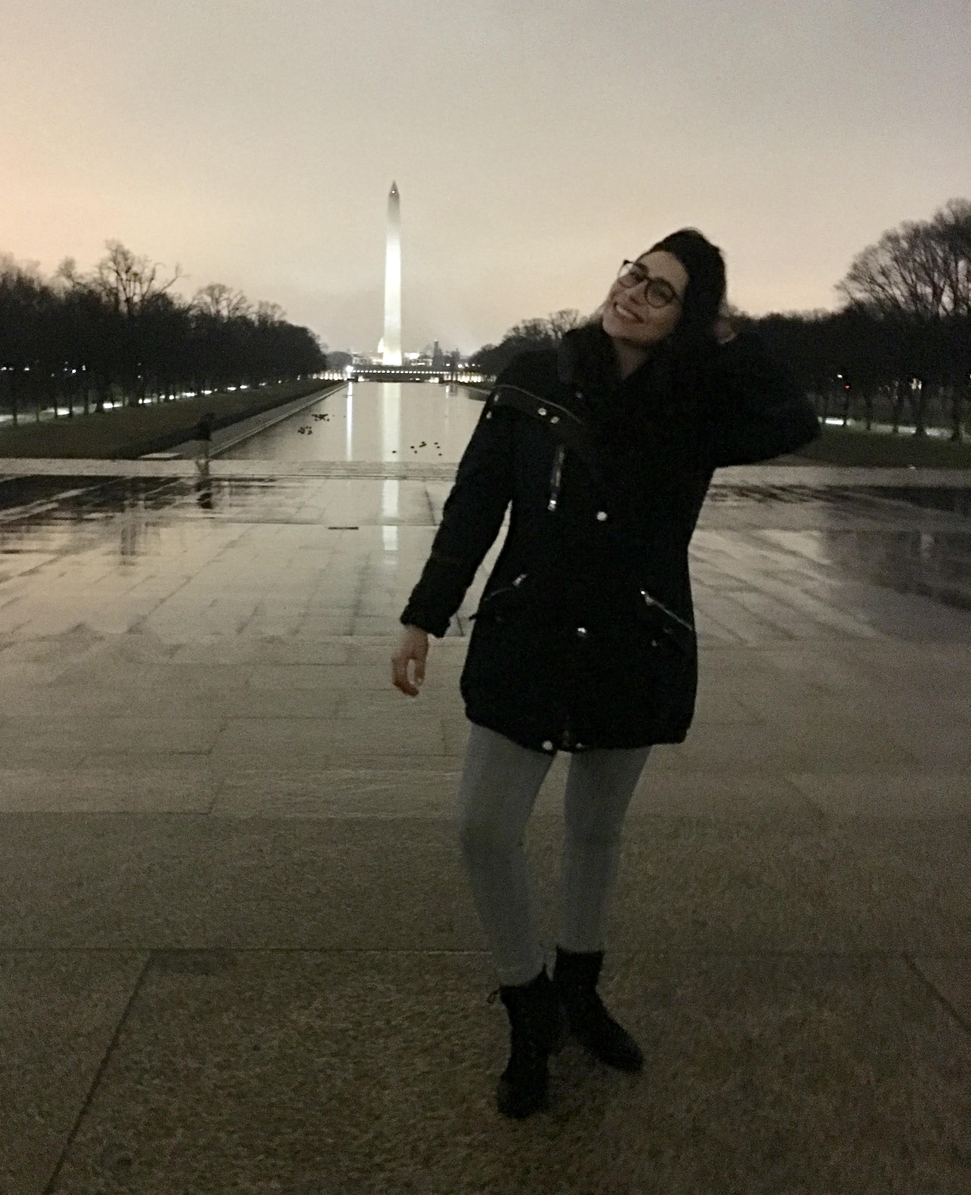
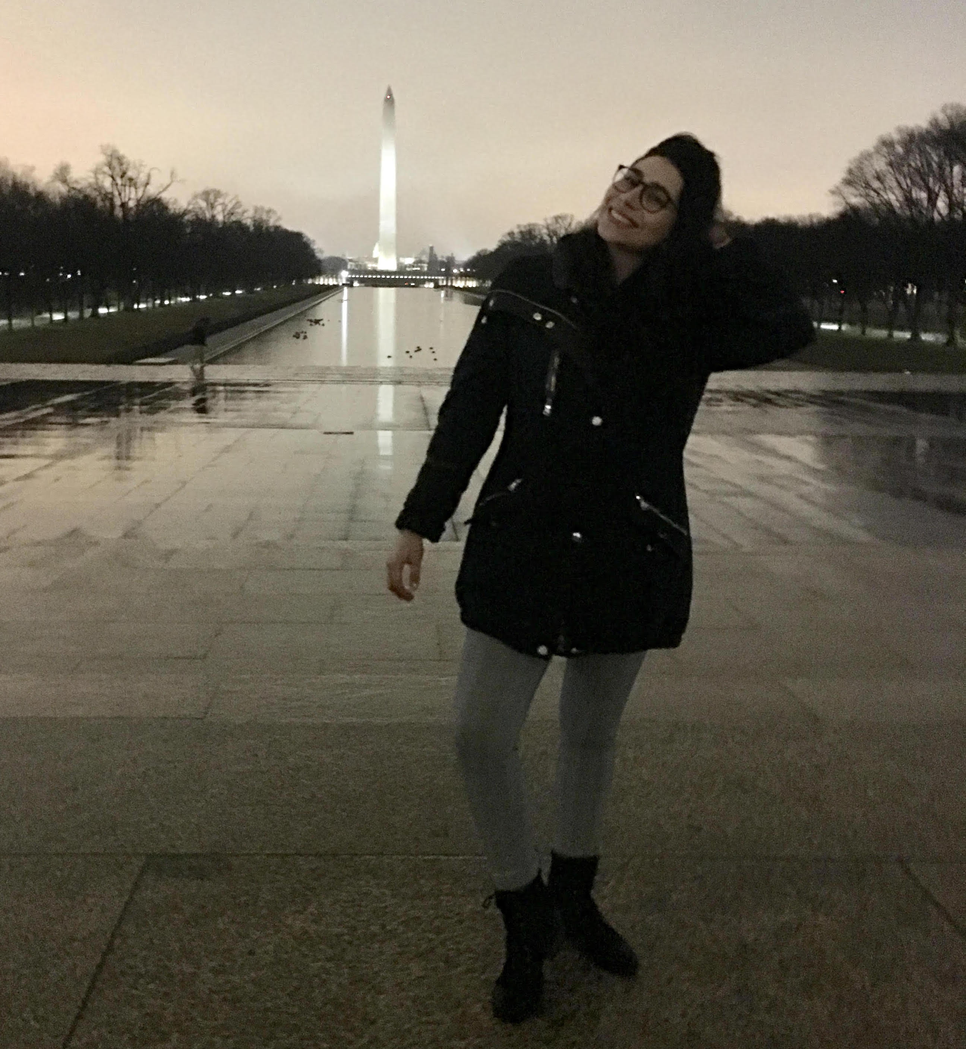
finished shpe-div, added backgrounds to #shpe and #honorboard

diff --git a/index.html b/index.html
@@ -74,7 +74,6 @@
             <div id="shpe" class="involve-containers bottom-arrow" class="current">Shpe</div>
             <div id="honorboard" class="involve-containers bottom-arrow">honor</div>
             <div id="ANY" class="involve-containers bottom-arrow">any</div>
-            <div id="DAL" class="involve-containers bottom-arrow">dal</div>
             <div id="LEADS" class="involve-containers bottom-arrow">leads</div>
         </div>
 
@@ -84,15 +83,22 @@
                 <p class="divs-content" id="shpe-first-para">The Society of Hispispainic Professional Engineers (SHPE) is an organization that caught my eye the moment I entered Stevens. Once I joined, I could already see the tremendous dedication our chapter has in the advancement of its members
                     academic, professional, and leadership development. From the beginning I knew I wanted to be a part of an organi zation that focused on the career goals of minorities on campus, especially since many of us coming in are first-generation
                     college students with little knowledge of how to maneuver the professional world. </p>
-                <p class="divs-content" id="shpe-second-para">As current Internal Relations Chair, I am given the opportunity to focus on our SHPE Jr. chapters at Union City Highschool and North Bergen Highschool. My job is to expose these students of lower-income areas to the possibilities STEM
+                <img src="ShpeRLDCSolo.jpg" alt="Valentina at the outskirts of RLDC" id="shpeRLDCSolo">
+
+                <p class="divs-content">As current Internal Relations Chair, I am given the opportunity to focus on our SHPE Jr. chapters at Union City Highschool and North Bergen Highschool. My job is to expose these students of lower-income areas to the possibilities STEM
                     has to offer and spark interest in these growing fields. In my term as chair, I saw the need for better structure within the position. I decided to have each week be focused on a branch of engineering, beginning by creating the presentations,
                     choosing the challenges, and budgeting for required supplies before the start of the upcoming 2019 Fall Semester. Our main event is Dia de Las Ciencias, in which we invite not only our Jr. chapters, but New Jersey Institute of Technology’s
                     Jr. chapters as well to enjoy various STEM related activities throughout the entire day with the help of SHPE member volunteers. </p>
-                <img src="ShpeRLDCSolo.jpg" alt="Valentina at the outskirts of RLDC" id="shpeRLDCSolo">
+                <img src="shpeRLDCWashinton.jpg" alt="Valentina visiting some of Washinton D.C.'s monuments'" id="shpeRLDCWashington">
+
+                <p class="divs-content">As a member of SHPE, it is important we also demonstrate our devotion to the community to achieve a well-rounded self. Every semester, our familia joins forces to attend Beach Sweeps; an entire day dedicated to cleaning Sandy Hook Beach,
+                    NJ.!!! Being a part of SHPE also means having the ability to go to yearly national and regional conferences to enhance our networking skills and meet with recruiters from our industries to score a Co-op/internship. In 2019, I attended
+                    the Regional Leadership Development Conference in Washington, D.C. as preparation for the upcoming National Conference in October 2019. Never having attended a conference, it was an incredible opportunity to get a feel for how conferences
+                    function and become more comfortable speaking to recruiters.
+                </p>
             </div>
             <div id="ANY-div" class="involvement-divs"></div>
             <div id="honor-div" class="involvement-divs"></div>
-            <div id="DAL-div" class="involvement-divs"></div>
             <div id="LEADS-div" class="involvement-divs"></div>
         </div>
 

diff --git a/styler.css b/styler.css
@@ -287,39 +287,35 @@
     
     #shpe {
         z-index: 5;
-        background-color: lightblue;
-        left: 130px;
+        background-image: url(ShpeRLDCSolo.jpg);
+        background-size: contain;
+        left: 90px;
     }
     
     #honorboard {
-        background-color: rgb(229, 212, 243);
+        background-image: url(HonorSolo.jpg);
+        background-size: contain;
         z-index: 4;
-        left: 60px;
+        left: 30px;
     }
     
     #ANY {
         z-index: 3;
         background-color: lightgoldenrodyellow;
-        right: 10px;
-    }
-    
-    #DAL {
-        background-color: rgb(177, 245, 177);
-        z-index: 2;
-        right: 70px;
+        left: -30px;
     }
     
     #LEADS {
         z-index: 1;
         background-color: lightcoral;
-        right: 140px;
+        right: 90px;
     }
     
     .involve-containers.clicked,
     .experience-containers.clicked,
     .experience-containers.clicked.waiting:hover,
     .involve-containers.clicked.waiting:hover {
-        transform: scale(1.30, 1.05);
+        transform: scale(1.10, 1.15);
         opacity: 1;
         transition: ease-in-out .3s;
         z-index: 6 !important;
@@ -327,7 +323,7 @@
     
     .experience-containers:hover,
     .involve-containers:hover {
-        transform: scale(1.30, 1.05);
+        transform: scale(1.15, 1.15);
         opacity: 1;
         transition: ease-in-out .3s;
         z-index: 6 !important;
@@ -354,18 +350,12 @@
     #shpe-div {
         width: 100%;
         background-color: lightblue;
-        height: 600px;
+        height: 610px;
     }
     
     #honor-div {
         width: 100%;
         background-color: rgb(229, 212, 243);
-        height: 400px;
-    }
-    
-    #DAL-div {
-        width: 100%;
-        background-color: rgb(177, 245, 177);
         height: 400px;
     }
     
@@ -407,7 +397,7 @@
     }
     
     .change-fourth-section-top {
-        top: 2230px;
+        top: 2240px;
     }
     
     .bottom-arrow {
@@ -498,7 +488,7 @@
     }
     
     .change-fifth-section-top {
-        top: 2790px;
+        top: 2900px;
     }
     
     #id-office-div {
@@ -526,16 +516,24 @@
     }
     
     .change-fifth-section-top-involve {
-        top: 2590px;
+        top: 2800px;
     }
     /*Content inside of SHPE div under Involvement*/
+    
+    p {
+        margin-bottom: 0px;
+        margin: 8px 20px 1px 20px;
+    }
     
     .divs-content {
         overflow-wrap: normal;
         font-family: 'Poiret One', Georgia, Times, serif;
         font-size: 1.5vw;
-        display: flex;
         text-align: justify;
+    }
+    
+    #shpe-first-para {
+        margin-top: 15px;
     }
     
     img {
@@ -544,27 +542,27 @@
         box-shadow: 4px 6px 13px 1px rgba(0, 0, 0, 0.57);
     }
     
-    #shpe-first-para {
-        margin: 15px 20px 1px 20px;
-        flex-flow: column;
-    }
-    
-    #shpe-second-para {
-        margin: 15px 20px 1px 20px;
-        float: right;
-        text-align: justify;
-    }
-    
     #shpeBeachSweeps {
-        height: 55%;
-        width: 30%;
+        max-width: 100%;
         float: right;
-        margin: 10px 20px 5px 15px;
+        margin: 10px 20px 10px 15px;
+        width: 330px;
+        height: 230px;
     }
     
     #shpeRLDCSolo {
-        height: 40%;
-        width: 15%;
+        height: 280px;
+        width: 180px;
         float: left;
-        margin: 10px 20px 5px 15px;
+        margin: 8px 20px 5px 25px;
+        clear: top;
+        max-width: 100%;
+    }
+    
+    #shpeRLDCWashington {
+        height: 235px;
+        width: 200px;
+        float: right;
+        margin: 0px 20px 5px 15px;
+        max-width: 100%;
     }
